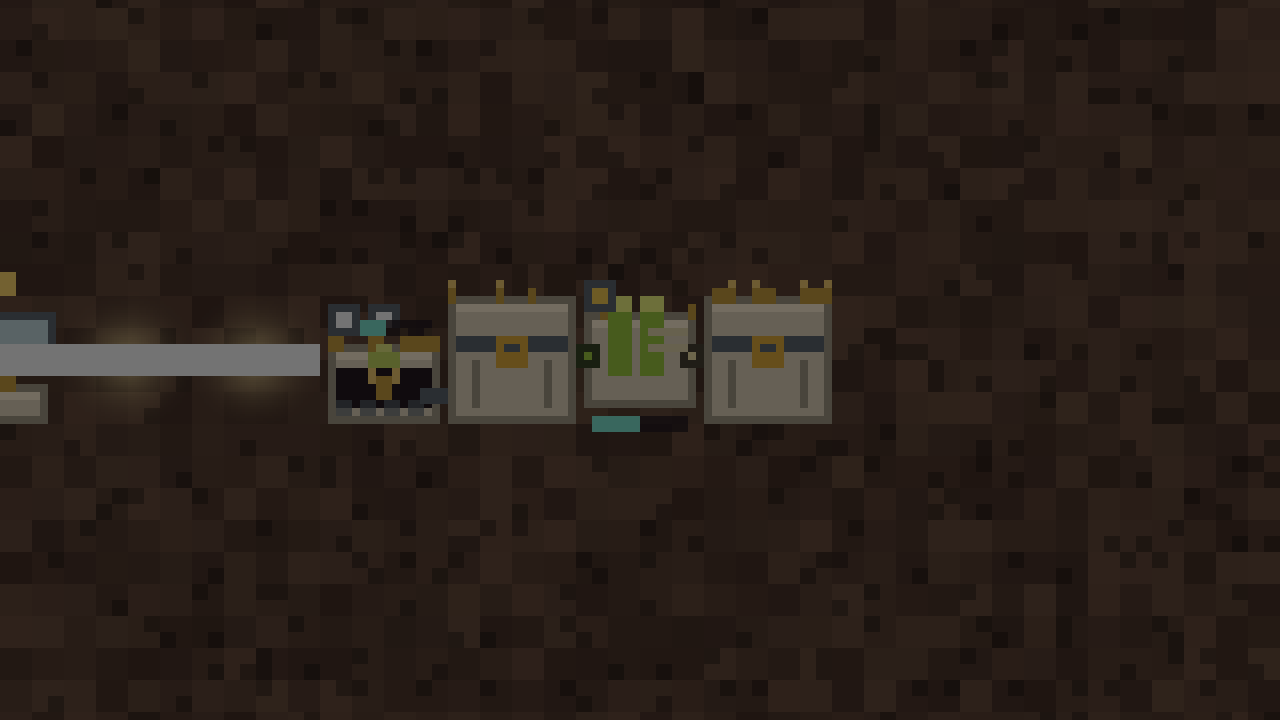
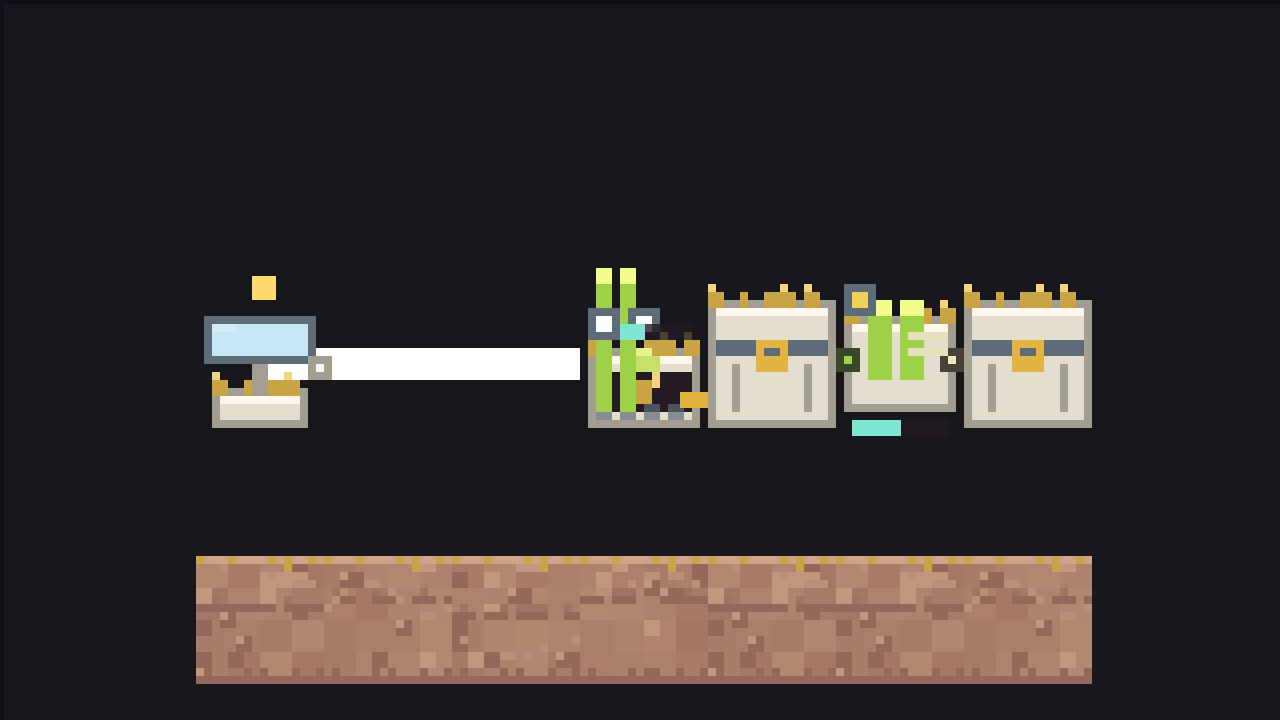
Кадр телефона — портрет 720×1280, не обрезанное окно.
SubViewport рисует оба кадра: дисплей режет 720×1280, а камера окна на ряд не смотрит. Портрет зумом 5, иначе цепочка из шести клеток вылезает за края.

diff --git a/tools/README_TESTS.md b/tools/README_TESTS.md
@@ -453,11 +453,14 @@ godot --headless --path . --script res://tools/save_test.gd
   партии и старый сейв без полей пресса. Разбор возвращает волокно и панели.
   Минута цепочки копит панели, два отрезка по 48 с дают больше, чем ремонт.
 
-Кадры `docs/img/shots/press.png` и `docs/img/shots/press_phone.png` —
-`tools/press_shot.gd`, окно за экраном, своя камера на прессе (зум 8).
-Широкий запрошен 1280×720 и лёг как есть. Телефонный угол запрошен 720×1280,
-дисплей обрезал до фактических 720×1016:
-`timeout 90 godot --path . --audio-driver Dummy --disable-vsync --fixed-fps 60 --windowed --position -10000,-10000 --resolution 720x1280 --script res://tools/press_shot.gd -- --seed=31337`.
+Кадры — `tools/press_shot.gd`, окно за экраном, сид 31337. Оба пишет SubViewport,
+не текстура окна: дисплей режет портрет, а камера окна на этот ряд не смотрит.
+Широкий `docs/img/shots/press.png` — 1280×720, зум 8.
+Телефонный `docs/img/shots/press_phone.png` — 720×1280, зум 5 (на зуме 8 ряд
+из шести клеток не влезает в 720). Фон пещеры, пол, белый луч. Сдвиг на
+полпикселя, иначе щель входа (1 px) попадает на границу пикселя.
+Цепочка в обоих слева направо, вход пресса влево, как в сценарии. Флаг `--phone`:
+`flock /tmp/godot-stand.lock ~/godot-4.7.2/godot --path . --audio-driver Dummy --disable-vsync --fixed-fps 60 --windowed --position -10000,-10000 --resolution 1280x720 --script res://tools/press_shot.gd -- --seed=31337 --phone`.
 
 ### Каркас пристройки (ADR-006 § 3.1, #312)
 
